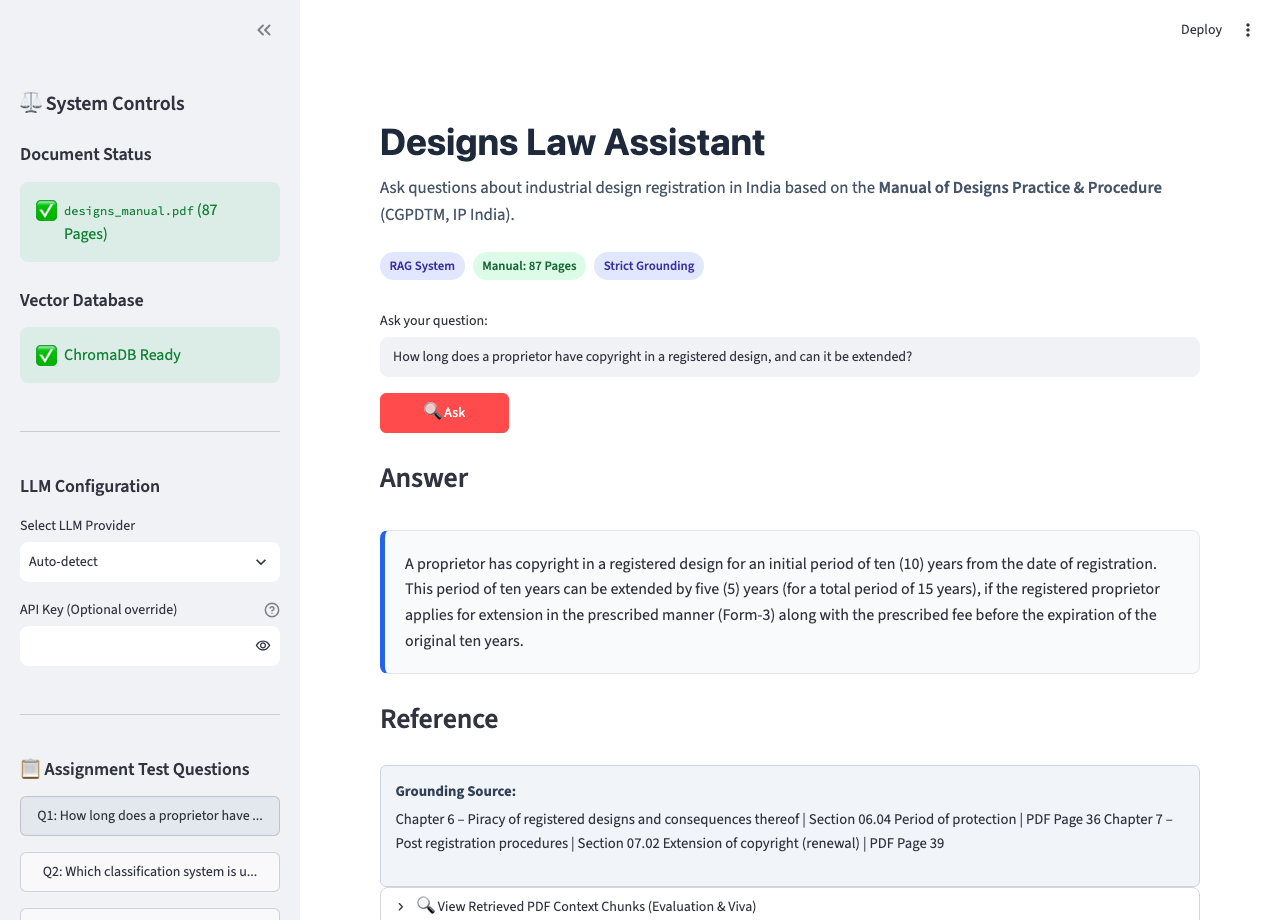
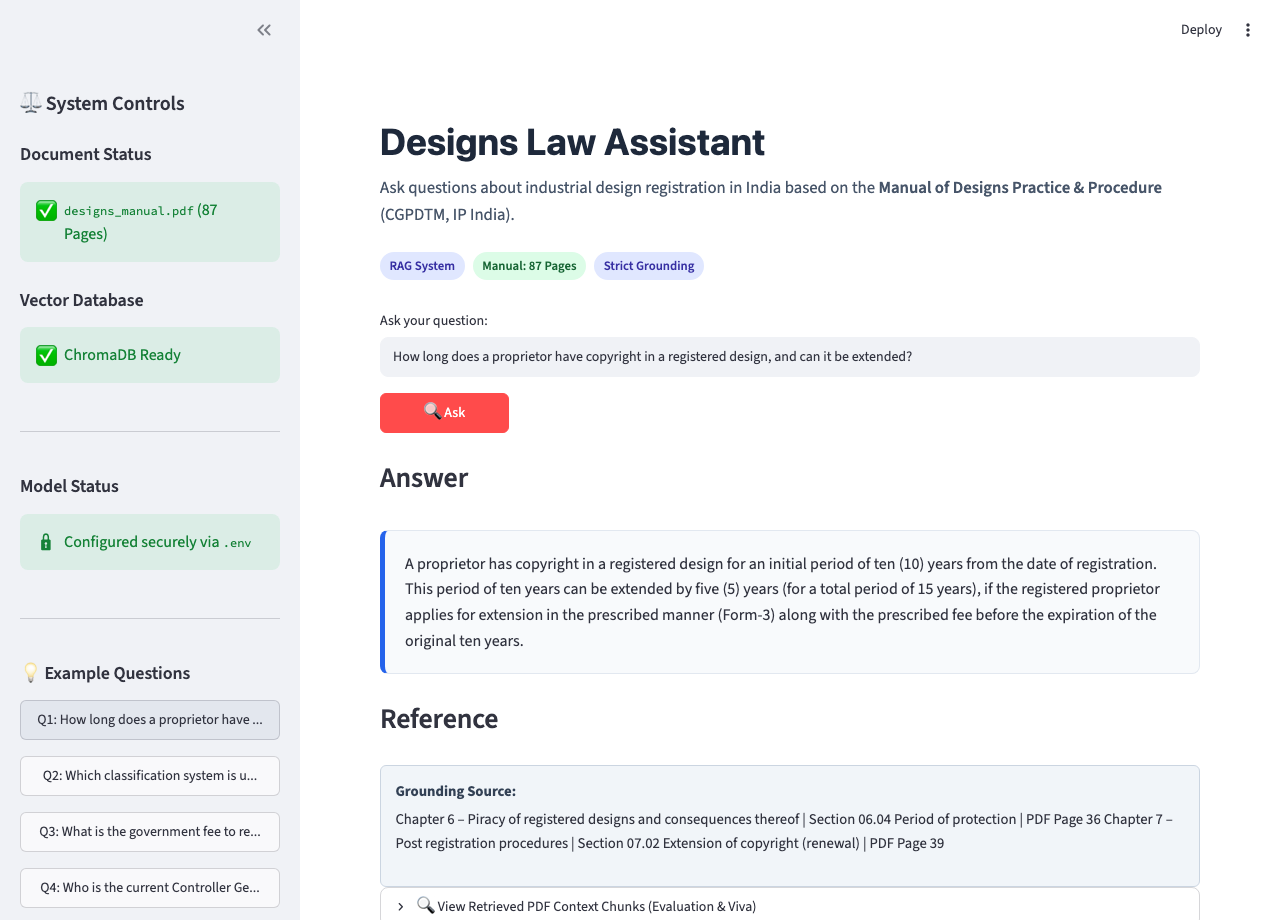
Secure API key configuration to .env and rename test questions to Example Questions

diff --git a/app.py b/app.py
@@ -114,34 +114,14 @@ def main():
 
         st.divider()
 
-        # LLM Provider Configuration
-        st.subheader("LLM Configuration")
-        provider_choice = st.selectbox(
-            "Select LLM Provider",
-            options=["Auto-detect", "Groq", "Google Gemini", "OpenAI", "Ollama"],
-            index=0
-        )
-        
-        api_key_input = st.text_input(
-            "API Key (Optional override)",
-            type="password",
-            help="If provided, overrides .env for this session"
-        )
-        if api_key_input:
-            if provider_choice == "Groq":
-                config.GROQ_API_KEY = api_key_input
-                config.DEFAULT_PROVIDER = "groq"
-            elif provider_choice == "Google Gemini":
-                config.GOOGLE_API_KEY = api_key_input
-                config.DEFAULT_PROVIDER = "gemini"
-            elif provider_choice == "OpenAI":
-                config.OPENAI_API_KEY = api_key_input
-                config.DEFAULT_PROVIDER = "openai"
+        # Model Status (Secured via .env)
+        st.subheader("Model Status")
+        st.success("🔒 Configured securely via `.env`")
 
         st.divider()
 
-        # Mandatory Questions Quick Launcher
-        st.subheader("📋 Assignment Test Questions")
+        # Example Questions Quick Launcher
+        st.subheader("💡 Example Questions")
         test_questions = [
             "How long does a proprietor have copyright in a registered design, and can it be extended?",
             "Which classification system is used to register designs?",
